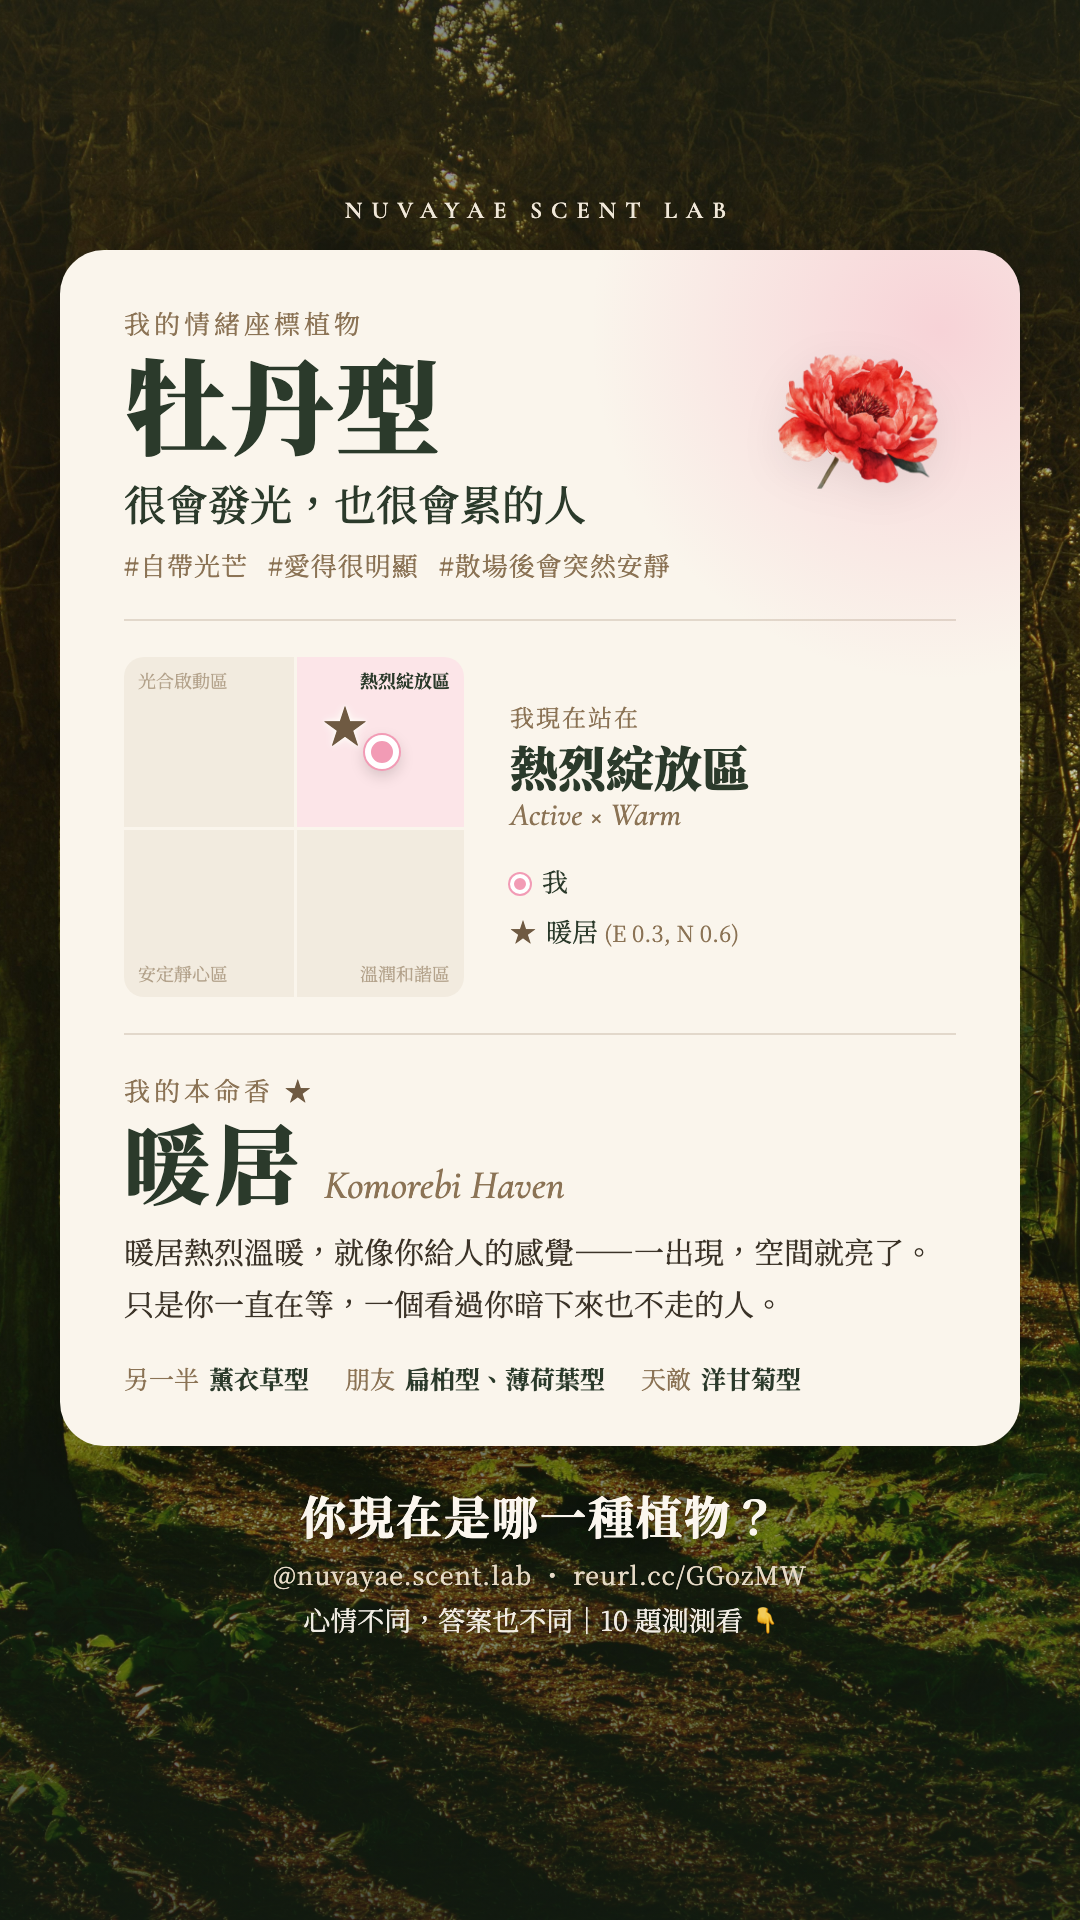
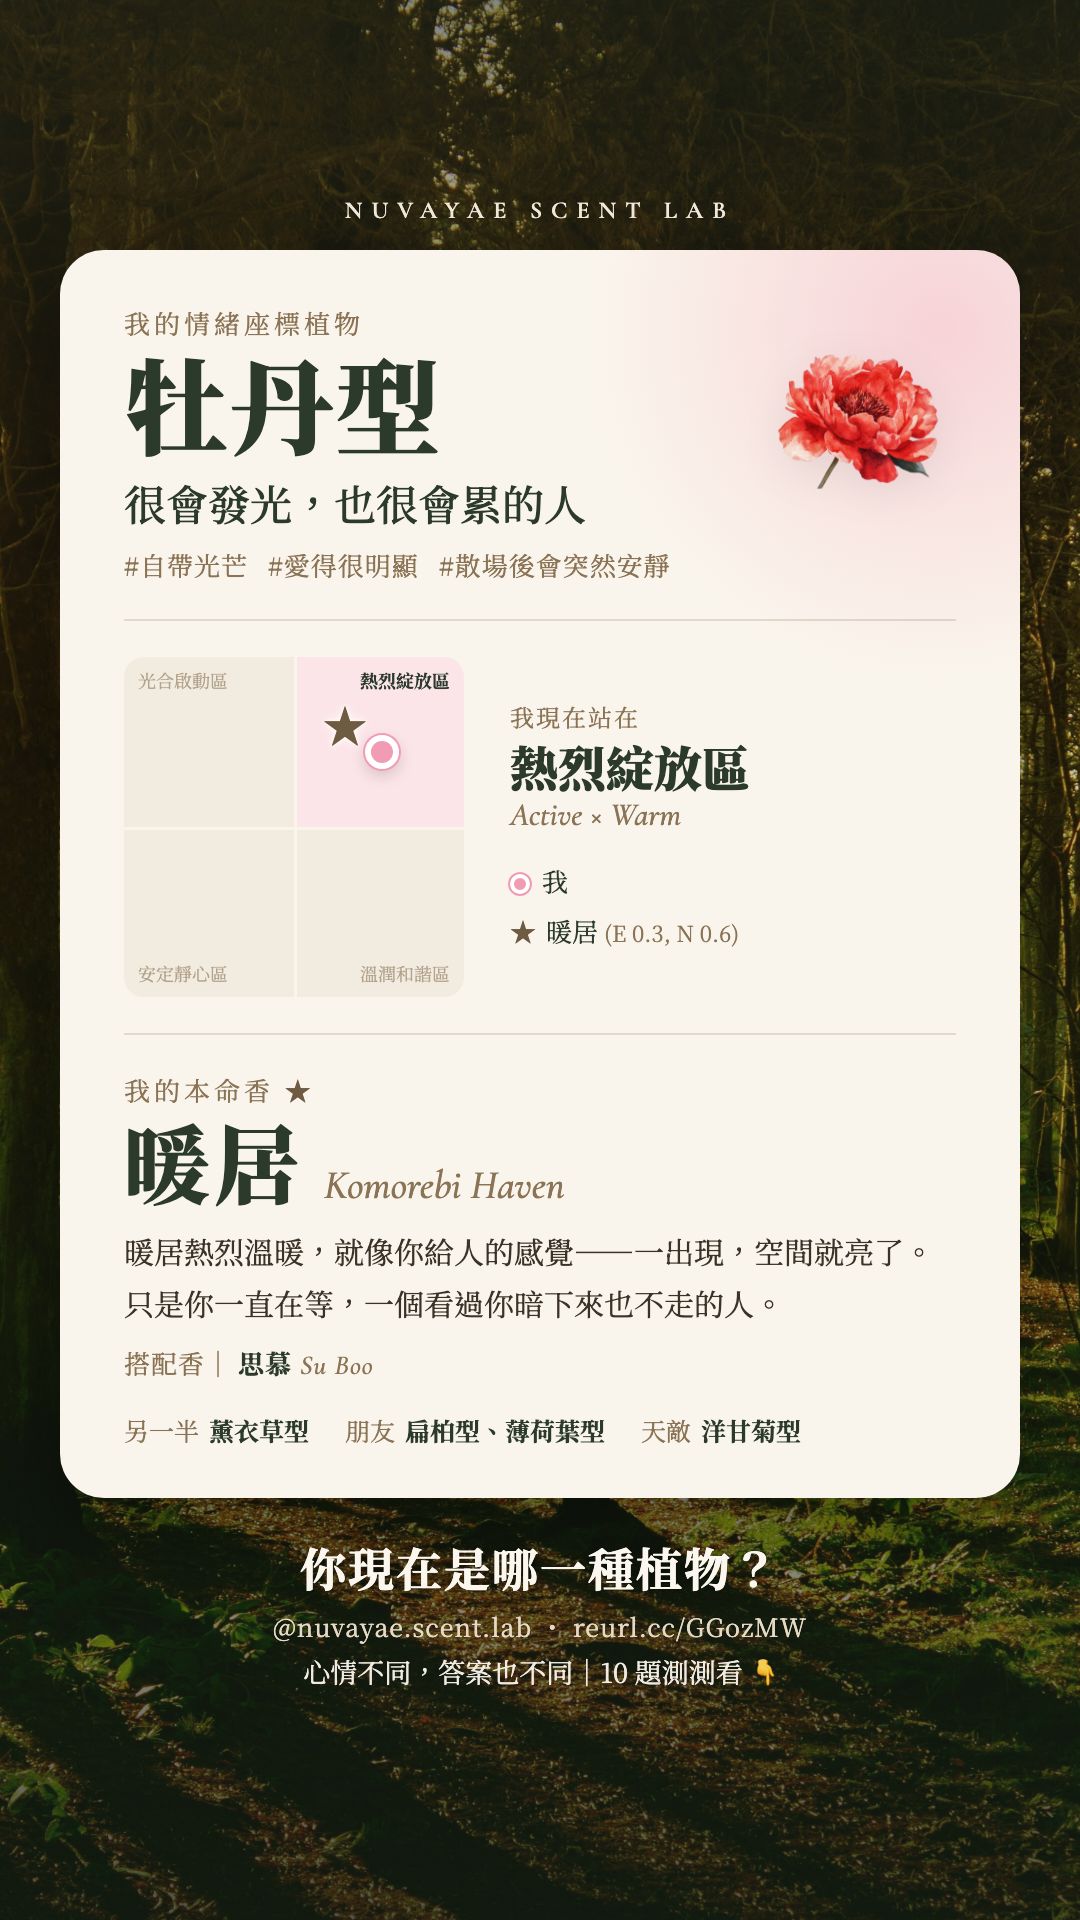
分享圖在本命香下方加一行搭配香

Changed region(s): [[0.0611, 0.6875, 0.9472, 0.875]]

diff --git a/tools/story-card.html b/tools/story-card.html
@@ -85,6 +85,9 @@
   .soul .zh { font-size: 86px; font-weight: 900; line-height: 1.15; letter-spacing: 4px; }
   .soul .en { font-family: 'Cormorant Garamond', serif; font-style: italic; font-size: 40px; color: #8b7355; }
   .soul .quote { font-size: 30px; line-height: 1.75; margin-top: 14px; color: #3b3328; }
+  .soul .pair { font-size: 26px; color: #8b7355; margin-top: 14px; letter-spacing: 1px; }
+  .soul .pair b { color: #2b3a2b; font-weight: 700; margin-left: 6px; }
+  .soul .pair i { font-family: 'Cormorant Garamond', serif; font-size: 27px; margin-left: 8px; }
 
   .rels { display: flex; flex-wrap: wrap; gap: 8px 36px; font-size: 25px; margin-top: 30px; }
   .rels span { color: #8b7355; margin-right: 10px; }
@@ -139,6 +142,7 @@
       <div class="lbl">我的本命香 <b>★</b></div>
       <div class="scent"><span class="zh" id="scentZh"></span><span class="en" id="scentEn"></span></div>
       <div class="quote" id="quote"></div>
+      <div class="pair">搭配香｜<b id="pairZh"></b><i id="pairEn"></i></div>
     </div>
 
     <div class="rels">
@@ -187,6 +191,10 @@
   $('scentZh').textContent = scentZh;
   $('scentEn').textContent = scentEn.join(' ');
   $('quote').textContent = d.persona.line;
+  const other = featured === 'similar' ? 'balance' : 'similar';
+  const [pairZh, ...pairEn] = products[d.scent[other].product].name.split(' ');
+  $('pairZh').textContent = pairZh;
+  $('pairEn').textContent = pairEn.join(' ');
 
   const names = keys => keys.map(k => plantData[k].name).join('、');
   $('relPartner').textContent = names(d.relationships.partner.plants);

diff --git a/js/share.js b/js/share.js
@@ -8,12 +8,12 @@ export class ShareManager {
   constructor() {
     // 預先生成的分享圖片路徑對應
     this.shareImages = {
-      lavender: 'share/lavender.png?v=8',
-      cypress: 'share/cypress.png?v=8',
-      hinoki: 'share/hinoki.png?v=8',
-      chamomile: 'share/chamomile.png?v=8',
-      mint: 'share/mint.png?v=8',
-      peony: 'share/peony.png?v=8'
+      lavender: 'share/lavender.png?v=9',
+      cypress: 'share/cypress.png?v=9',
+      hinoki: 'share/hinoki.png?v=9',
+      chamomile: 'share/chamomile.png?v=9',
+      mint: 'share/mint.png?v=9',
+      peony: 'share/peony.png?v=9'
     };
 
     // 各植物類型的分享文字模板
